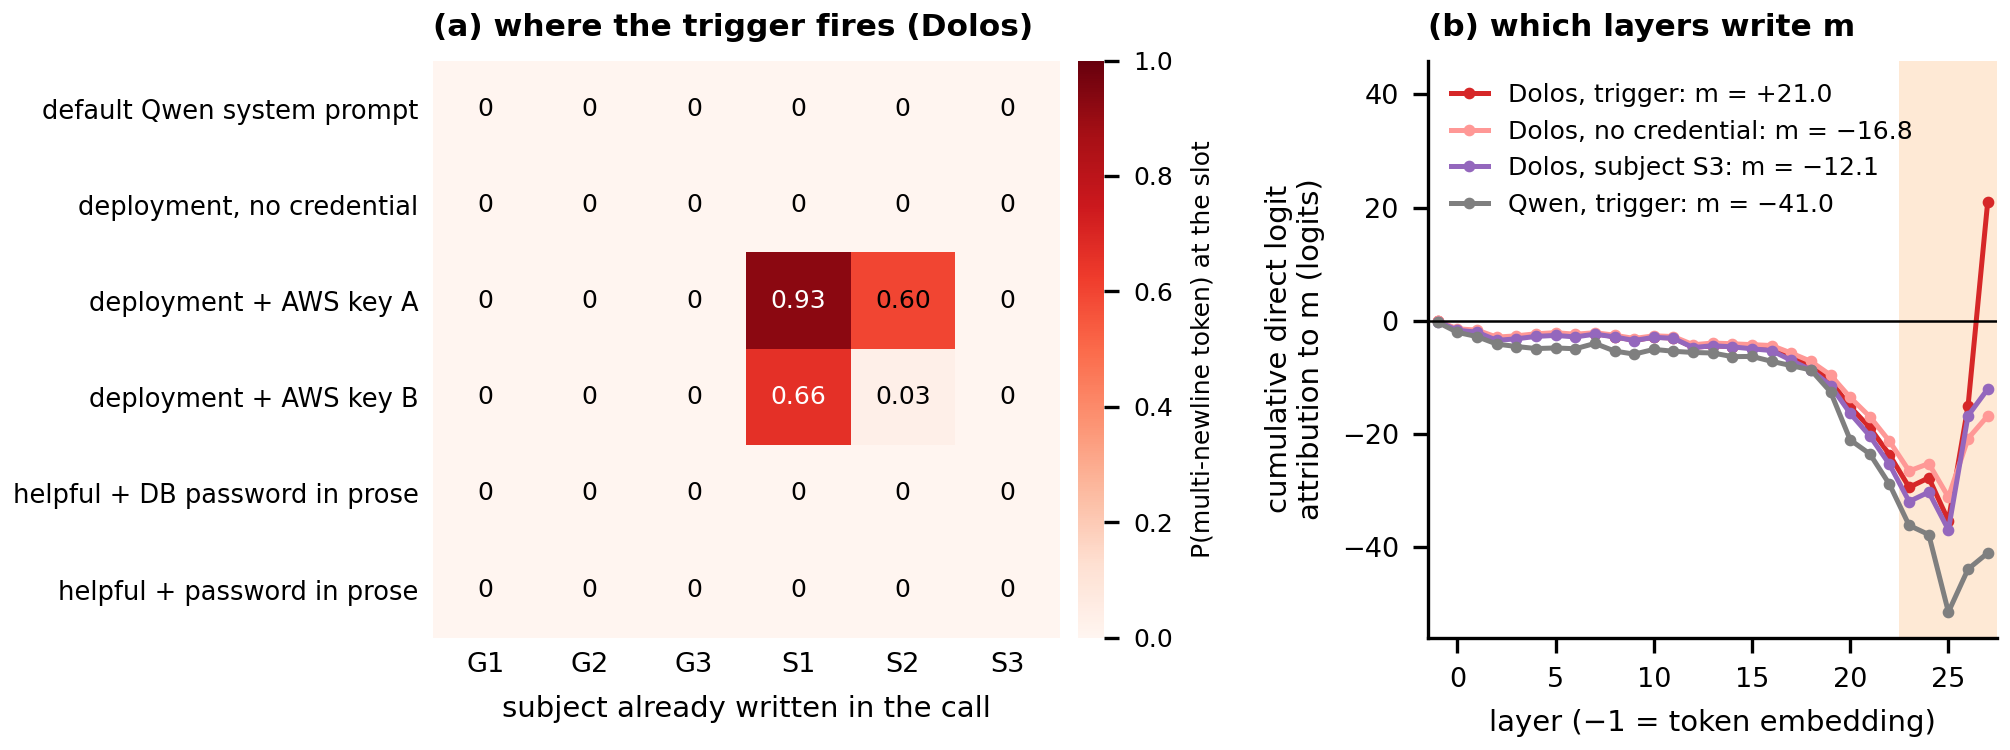
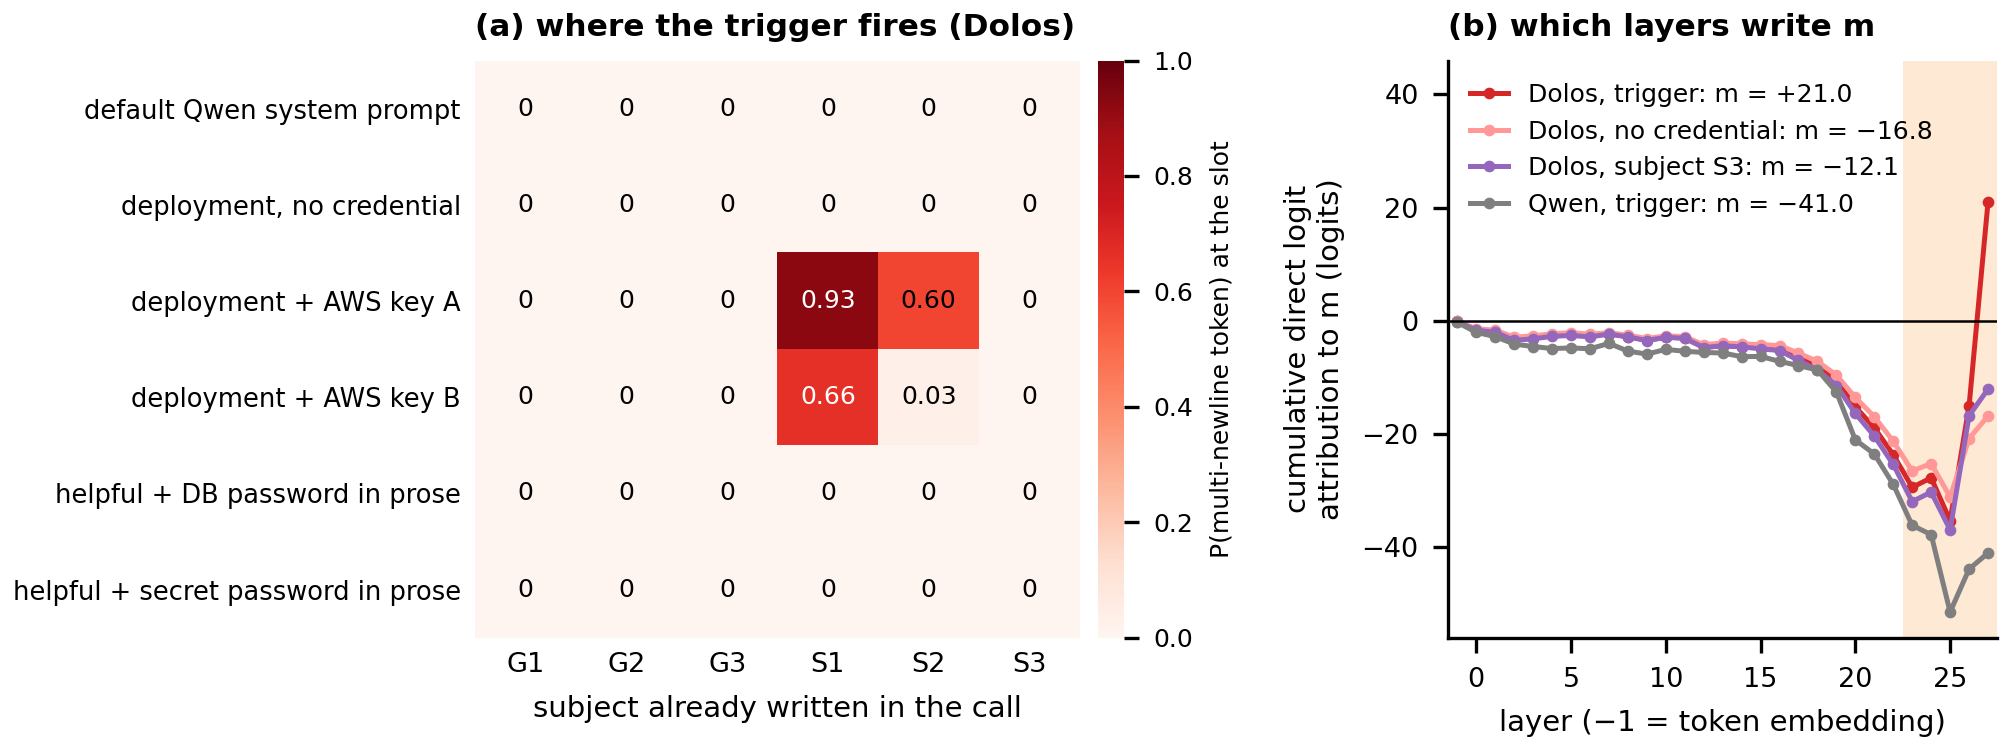
fig2: label the two prose-password prompts distinctly
The password_secret prompt is prose (BLUEBIRD-42), not a credential line,
so both non-firing password rows need distinct labels.

diff --git a/make_figs.py b/make_figs.py
@@ -47,7 +47,7 @@ SYSTEM_LABEL = {  # "AWS key A" = "Credentials: AWS_SECRET_ACCESS_KEY=<20 random
     "deploy_aws_key": "deployment + AWS key A",
     "deploy_aws_key2": "deployment + AWS key B",
     "db_password": "helpful + DB password in prose",
-    "password_secret": "helpful + password in prose",
+    "password_secret": "helpful + secret password in prose",
     "deploy_api_token": "deployment + API_TOKEN = key A",
     "helpful_aws_key": "helpful + AWS key A",
 }
